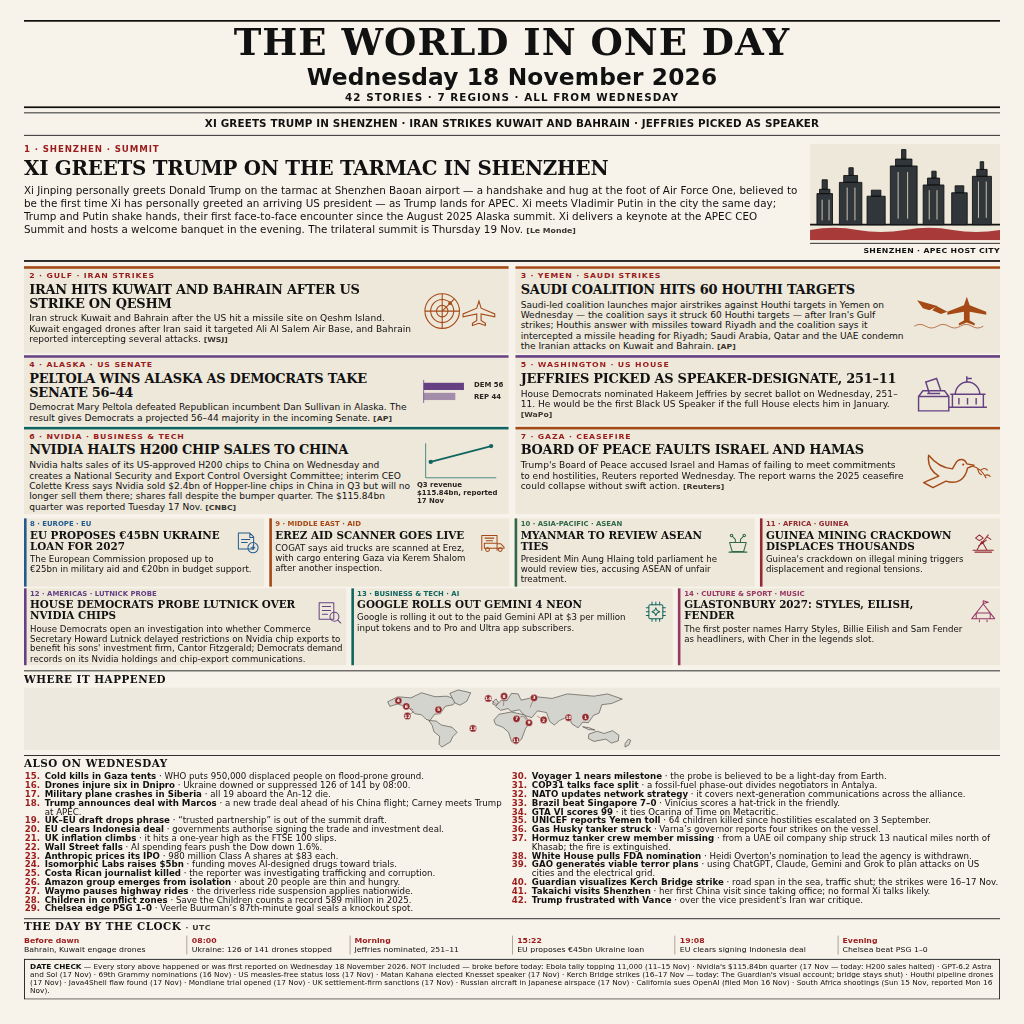
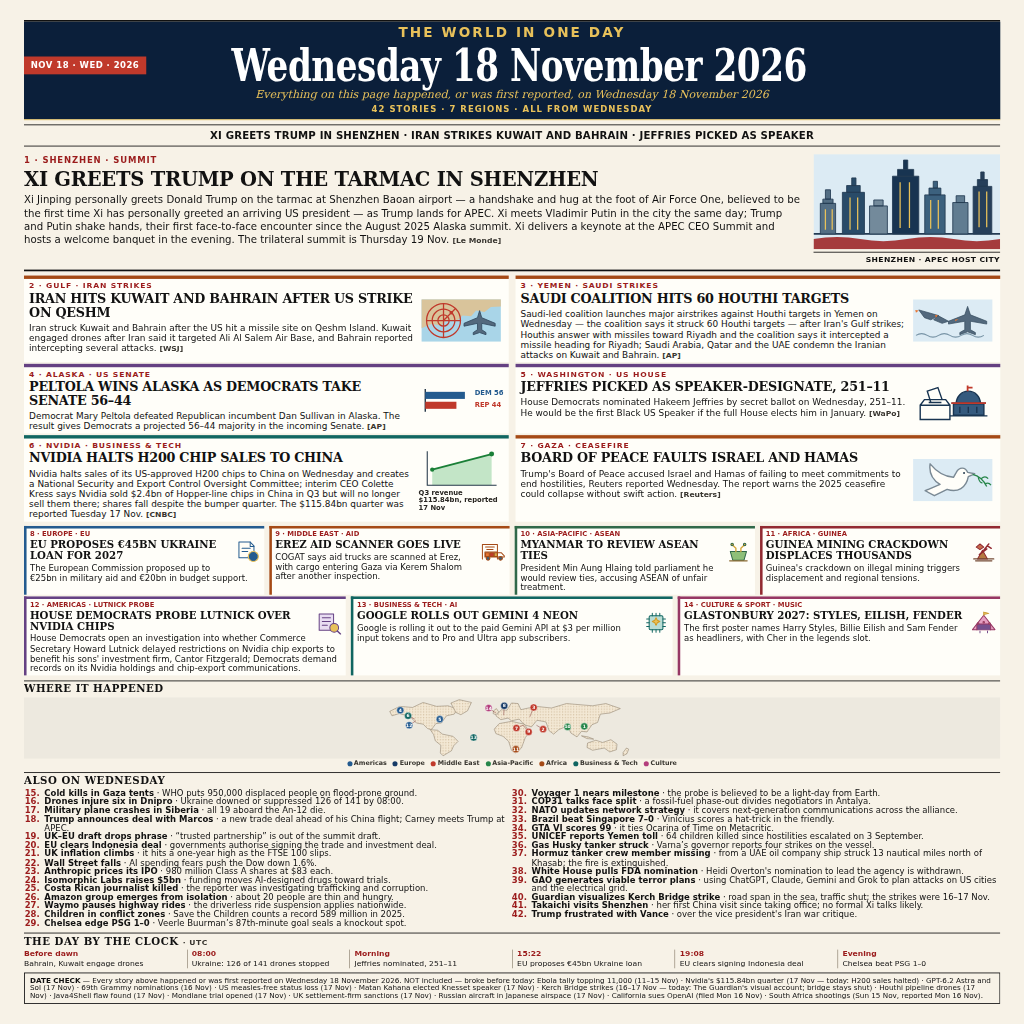
The World in One Day — 18 November 2026: navy masthead, big date, full colour

diff --git a/page.html b/page.html
@@ -7,13 +7,17 @@
 <style>
 * { box-sizing: border-box; }
 html, body { width: 1024px; height: 1024px; margin: 0; overflow: hidden; }
-body { background: #f7f3ea; color: #111; font-family: "DejaVu Sans", Arial, sans-serif; padding: 20px 24px; }
+body { background: #F7F2E7; color: #111; font-family: "DejaVu Sans", Arial, sans-serif; padding: 20px 24px; }
 .page { width: 976px; display: flow-root; overflow: hidden; transform-origin: top left; }
 .rule { border: 0; border-top: 2px solid #111; margin: 0; }
-.masthead { text-align: center; padding: 2px 0 3px; }
-h1 { font: 900 43px/1.02 "DejaVu Serif", Georgia, serif; letter-spacing: 1.1px; margin: 0 0 3px; }
-.date { font: 800 27px/1.08 "DejaVu Sans", Arial, sans-serif; letter-spacing: .15px; margin: 0 0 3px; }
-.dek { font: 700 12px/1.2 "DejaVu Sans", Arial, sans-serif; letter-spacing: 1.2px; text-transform: uppercase; }
+.masthead { background: #0B1F3A; color: #fff; text-align: center; margin: 0 -24px; padding: 4px 24px 6px; }
+h1 { color: #E8C15A; font: 900 16px/1.15 "DejaVu Sans", Arial, sans-serif; letter-spacing: 2.5px; margin: 0 0 2px; }
+.date-row { display: grid; grid-template-columns: 140px minmax(0, 1fr) 140px; align-items: center; }
+.date-badge { justify-self: start; background: #C0392B; color: #fff; padding: 5px 8px; font: 800 10px/1.15 "DejaVu Sans", Arial, sans-serif; letter-spacing: .55px; white-space: nowrap; }
+.date { color: #fff; font: 900 53px/1.02 "DejaVu Serif", Georgia, serif; letter-spacing: -.7px; margin: 0; white-space: nowrap; transform: scaleX(.76); transform-origin: center; }
+.subline { color: #E8C15A; font: italic 13px/1.15 "DejaVu Serif", Georgia, serif; margin: 1px 0 3px; }
+.dek { color: #E8C15A; font: 700 10px/1.15 "DejaVu Sans", Arial, sans-serif; letter-spacing: 1.2px; text-transform: uppercase; }
+.masthead + .rule { border-top: 1px solid #E8C15A; margin: 0 -24px; }
 .strap { border-top: 1px solid #111; border-bottom: 1px solid #111; margin: 5px 0 9px; padding: 5px 0; text-align: center; font: 800 12px/1.2 "DejaVu Sans", Arial, sans-serif; letter-spacing: .16px; }
 .lead { border-bottom: 2px solid #111; padding: 0 0 6px; display: grid; grid-template-columns: 1fr 220px; gap: 12px; }
 .kicker { color: #9b1c1c; font: 800 10px/1.2 "DejaVu Sans", Arial, sans-serif; letter-spacing: 1px; text-transform: uppercase; margin: 1px 0 4px; }
@@ -23,7 +27,7 @@ h2 { font: 800 23px/1.08 "DejaVu Serif", Georgia, serif; letter-spacing: -.3px; 
 .caption { border-top: 1px solid #111; padding-top: 3px; margin-top: 3px; font: 700 9px/1.15 "DejaVu Sans", Arial, sans-serif; letter-spacing: .4px; text-align: right; }
 .proof { font: 800 9px/1.2 "DejaVu Sans", Arial, sans-serif; color: #393630; white-space: nowrap; }
 .tier-grid { display: grid; grid-template-columns: repeat(2, minmax(0, 1fr)); gap: 2px 8px; margin: 5px 0; }
-.tier-card { --section-ink: #a54a16; border-top: 3px solid var(--section-ink); background: #eee8da; padding: 2px 6px; display: grid; grid-template-columns: minmax(0, 1fr) 100px; gap: 5px; }
+.tier-card { --section-ink: #a54a16; border-top: 4px solid var(--section-ink); background: #FFFEF9; padding: 2px 6px; display: grid; grid-template-columns: minmax(0, 1fr) 100px; gap: 5px; }
 .tier-card.ukraine { --section-ink: #455e70; }
 .tier-card.americas { --section-ink: #654183; }
 .tier-card.business { --section-ink: #116661; }
@@ -35,19 +39,31 @@ h2 { font: 800 23px/1.08 "DejaVu Serif", Georgia, serif; letter-spacing: -.3px; 
 .thumb figcaption { color: #292622; font: 700 8px/1.1 "DejaVu Sans", Arial, sans-serif; }
 .thumb-senate { display: grid; grid-template-columns: 1fr auto; align-items: center; gap: 4px; }
 .thumb-senate figcaption { display: grid; grid-template-rows: repeat(2, 14px); align-items: center; }
+.thumb-senate figcaption span:first-child { color: #245b8f; }
+.thumb-senate figcaption span:last-child { color: #C0392B; }
 .section-grid { display: grid; grid-template-columns: repeat(12, 1fr); gap: 2px 6px; }
-.section-card { grid-column: span 3; border-left: 3px solid var(--ink); background: #eee8da; padding: 2px 4px; }
+.section-card { grid-column: span 3; border-left: 3px solid var(--ink); border-top: 3px solid var(--ink); background: #FFFEF9; padding: 2px 4px; }
 .section-card:nth-child(n+5) { grid-column: span 4; }
-.section-card .kicker { color: var(--ink); font-size: 8px; letter-spacing: 0; margin: 0 0 2px; }
+.section-card .kicker { color: #9b1c1c; font-size: 8px; letter-spacing: 0; margin: 0 0 2px; }
 .section-card h2 { font-size: 12px; letter-spacing: 0; margin-bottom: 2px; }
 .section-card .summary { font-size: 10px; line-height: 1.16; }
 .section-card svg { float: right; width: 31px; height: 28px; margin: 0 0 1px 4px; color: var(--ink); fill: none; stroke: currentColor; stroke-width: 1.6; stroke-linecap: round; stroke-linejoin: round; }
 .panel { margin-top: 6px; border-top: 1px solid #111; padding-top: 3px; }
 .panel-title { font-size: 12px; letter-spacing: .6px; margin-bottom: 3px; }
 .world-map { display: block; width: 100%; height: 72px; background: #ede9df; }
-.world-map .land { fill: #d4d4cf; stroke: #393630; stroke-width: 1; stroke-linejoin: round; }
+.world-map .land { fill: url(#land-dots); stroke: #8e806c; stroke-width: 1; stroke-linejoin: round; }
 .world-map .leader { fill: none; stroke: #782726; stroke-width: .8; }
 .world-map .pins { fill: #fff; font: 700 8px "DejaVu Sans", Arial, sans-serif; text-anchor: middle; }
+.world-map .pin-americas { fill: #245b8f; }
+.world-map .pin-europe { fill: #173b67; }
+.world-map .pin-middle-east { fill: #C0392B; }
+.world-map .pin-asia-pacific { fill: #27864A; }
+.world-map .pin-africa { fill: #a54a16; }
+.world-map .pin-business { fill: #116661; }
+.world-map .pin-culture { fill: #b33d7c; }
+.map-legend { display: flex; align-items: center; justify-content: center; gap: 7px; margin-top: 2px; color: #393630; font: 700 7.5px/1.1 "DejaVu Sans", Arial, sans-serif; white-space: nowrap; }
+.map-legend span { display: inline-flex; align-items: center; gap: 2px; }
+.map-legend i { display: inline-block; width: 6px; height: 6px; border-radius: 50%; }
 .briefs { columns: 2; column-gap: 20px; margin: 0; padding: 0 0 0 22px; font-size: 10px; line-height: 1.02; }
 .briefs li { break-inside: avoid; padding-left: 2px; }
 .briefs li::marker { color: #9b1c1c; font-weight: 800; }
@@ -63,7 +79,12 @@ h2 { font: 800 23px/1.08 "DejaVu Serif", Georgia, serif; letter-spacing: -.3px; 
   <hr class="rule">
   <header class="masthead">
     <h1>THE WORLD IN ONE DAY</h1>
-    <div class="date">Wednesday 18 November 2026</div>
+    <div class="date-row">
+      <div class="date-badge">NOV 18 · WED · 2026</div>
+      <div class="date">Wednesday 18 November 2026</div>
+      <div aria-hidden="true"></div>
+    </div>
+    <div class="subline">Everything on this page happened, or was first reported, on Wednesday 18 November 2026</div>
     <div class="dek">42 stories · 7 regions · All from Wednesday</div>
   </header>
   <hr class="rule">
@@ -76,18 +97,18 @@ h2 { font: 800 23px/1.08 "DejaVu Serif", Georgia, serif; letter-spacing: -.3px; 
     </div>
     <div>
       <svg class="skyline" viewBox="0 0 220 112" role="img" aria-label="Schematic Shenzhen skyline">
-        <rect x="0" y="0" width="220" height="112" fill="#eee8da"/>
-        <path d="M0 94H220" stroke="#111" stroke-width="2"/>
-        <g fill="#30363a" stroke="#111" stroke-width="1">
-          <path d="M8 94V58h18v36zM11 53h12v5H11zM14 42h6v11h-6z"/>
-          <path d="M34 94V45h26v49zM39 37h16v8H39zM45 28h5v9h-5z"/>
-          <path d="M66 94V61h21v33zM71 54h11v7H71z"/>
-          <path d="M93 94V26h31v68zM99 18h19v8H99zM106 7h5v11h-5z"/>
-          <path d="M131 94V48h24v46zM136 40h14v8h-14zM141 32h5v8h-5z"/>
-          <path d="M164 94V57h18v37zM168 49h10v8h-10z"/>
-          <path d="M188 94V38h22v56zM193 30h12v8h-12zM197 21h4v9h-4z"/>
+        <rect x="0" y="0" width="220" height="112" fill="#DCEBF4"/>
+        <path d="M0 94H220" stroke="#243b53" stroke-width="2"/>
+        <g stroke="#243b53" stroke-width="1">
+          <path d="M8 94V58h18v36zM11 53h12v5H11zM14 42h6v11h-6z" fill="#536E84"/>
+          <path d="M34 94V45h26v49zM39 37h16v8H39zM45 28h5v9h-5z" fill="#294B68"/>
+          <path d="M66 94V61h21v33zM71 54h11v7H71z" fill="#738A9B"/>
+          <path d="M93 94V26h31v68zM99 18h19v8H99zM106 7h5v11h-5z" fill="#183451"/>
+          <path d="M131 94V48h24v46zM136 40h14v8h-14zM141 32h5v8h-5z" fill="#3C617E"/>
+          <path d="M164 94V57h18v37zM168 49h10v8h-10z" fill="#607C91"/>
+          <path d="M188 94V38h22v56zM193 30h12v8h-12zM197 21h4v9h-4z" fill="#263F5A"/>
         </g>
-        <g stroke="#e5d9bf" stroke-width="1">
+        <g stroke="#E8C15A" stroke-width="1.5">
           <path d="M14 65v24m8-24v24M43 51v38m9-38v38M102 33v54m11-54v54M138 54v34m9-34v34M195 44v42m9-42v42"/>
         </g>
         <path d="M0 100q28-5 55 0t55 0t55 0t55 0v12H0z" fill="#9b1c1c" opacity=".85"/>
@@ -104,12 +125,14 @@ h2 { font: 800 23px/1.08 "DejaVu Serif", Georgia, serif; letter-spacing: -.3px; 
       </div>
       <figure class="thumb">
         <svg viewBox="0 0 112 60" aria-hidden="true">
-          <g fill="none" stroke="currentColor" stroke-width="1.5">
+          <rect width="112" height="60" fill="#A9D5E8"/>
+          <path d="M0 0h112v10l-14 1-9 7-12-2-7 8-12-1-9 8-14-1-7 7-14-2L0 41z" fill="#D9C49B"/>
+          <g fill="none" stroke="#C0392B" stroke-width="1.8">
             <circle cx="31" cy="30" r="24"/><circle cx="31" cy="30" r="16"/><circle cx="31" cy="30" r="8"/>
             <path d="M7 30h48M31 6v48M31 30l17-17"/>
-            <path d="M82 16l3 10 19 8v4l-19-4v9l6 4v3l-9-3-9 3v-3l6-4v-9l-19 4v-4l19-8z"/>
           </g>
-          <circle cx="42" cy="19" r="2.5" fill="currentColor"/>
+          <path d="M82 16l3 10 19 8v4l-19-4v9l6 4v3l-9-3-9 3v-3l6-4v-9l-19 4v-4l19-8z" fill="#53697D" stroke="#32495F" stroke-width="1.2"/>
+          <circle cx="42" cy="19" r="2.5" fill="#C0392B"/>
         </svg>
       </figure>
     </article>
@@ -121,8 +144,10 @@ h2 { font: 800 23px/1.08 "DejaVu Serif", Georgia, serif; letter-spacing: -.3px; 
       </div>
       <figure class="thumb">
         <svg viewBox="0 0 112 60" aria-hidden="true">
-          <path d="M8 15l28 8-11 6-9-3zM35 23l15 8-9 3-12-5zM77 10l4 12 23 9v4l-23-4v12l7 4v3l-11-4-11 4v-3l7-4V31l-23 4v-4l23-9z" fill="currentColor"/>
-          <path d="M4 51q8-5 16 0t16 0t16 0t16 0t16 0t16 0" fill="none" stroke="currentColor"/>
+          <rect width="112" height="60" fill="#DCEBF4"/>
+          <path d="M8 15l28 8-11 6-9-3zM35 23l15 8-9 3-12-5zM77 10l4 12 23 9v4l-23-4v12l7 4v3l-11-4-11 4v-3l7-4V31l-23 4v-4l23-9z" fill="#53697D" stroke="#354B5D" stroke-width="1"/>
+          <path d="M3 15l5 1-4 3zm28 7 4 1-3 3zm28 7 5-1-4 3z" fill="#E87532"/>
+          <path d="M4 51q8-5 16 0t16 0t16 0t16 0t16 0t16 0" fill="none" stroke="#7894A6" stroke-width="1.5"/>
         </svg>
       </figure>
     </article>
@@ -134,9 +159,9 @@ h2 { font: 800 23px/1.08 "DejaVu Serif", Georgia, serif; letter-spacing: -.3px; 
       </div>
       <figure class="thumb thumb-senate">
         <svg viewBox="0 0 64 60" aria-hidden="true">
-          <path d="M4 14v32" stroke="currentColor"/>
-          <rect x="4" y="18" width="56" height="10" fill="currentColor"/>
-          <rect x="4" y="32" width="44" height="10" fill="currentColor" opacity=".55"/>
+          <path d="M4 14v32" stroke="#263849" stroke-width="2"/>
+          <rect x="4" y="18" width="56" height="10" fill="#245b8f"/>
+          <rect x="4" y="32" width="44" height="10" fill="#C0392B"/>
         </svg>
         <figcaption><span>DEM 56</span><span>REP 44</span></figcaption>
       </figure>
@@ -149,11 +174,13 @@ h2 { font: 800 23px/1.08 "DejaVu Serif", Georgia, serif; letter-spacing: -.3px; 
       </div>
       <figure class="thumb">
         <svg viewBox="0 0 112 60" aria-hidden="true">
-          <g fill="none" stroke="currentColor" stroke-width="2">
-            <path d="M52 52h53M57 51V34h43v17M54 34h49M61 34a17 17 0 0 1 34 0M77 17V9m0 3h7M66 39v9m12-9v9m12-9v9"/>
+          <path d="M57 51V35h43v16zM61 34a17 17 0 0 1 34 0z" fill="#355A7E" stroke="#183451" stroke-width="2"/>
+          <g fill="none" stroke="#183451" stroke-width="2">
+            <path d="M52 52h53M54 34h49M66 39v9m12-9v9m12-9v9"/>
             <path d="M10 37h42v20H10zM10 37l6-8h30l6 8M22 33h18"/>
             <path d="m25 33-5-16 15-5 6 17"/>
           </g>
+          <path d="M54 34h49M77 17V9m0 3h7" fill="none" stroke="#C0392B" stroke-width="2.5"/>
         </svg>
       </figure>
     </article>
@@ -165,9 +192,10 @@ h2 { font: 800 23px/1.08 "DejaVu Serif", Georgia, serif; letter-spacing: -.3px; 
       </div>
       <figure class="thumb">
         <svg viewBox="0 0 112 60" aria-hidden="true">
-          <path d="M8 6v48h98" fill="none" stroke="currentColor"/>
-          <path d="M15 32 99 10" fill="none" stroke="currentColor" stroke-width="2.5"/>
-          <circle cx="15" cy="32" r="3" fill="currentColor"/><circle cx="99" cy="10" r="3" fill="currentColor"/>
+          <path d="M15 32 99 10V54H15Z" fill="#B9E0BE" opacity=".85"/>
+          <path d="M8 6v48h98" fill="none" stroke="#263849" stroke-width="1.5"/>
+          <path d="M15 32 99 10" fill="none" stroke="#1a7f37" stroke-width="2.8"/>
+          <circle cx="15" cy="32" r="3" fill="#1a7f37"/><circle cx="99" cy="10" r="3.5" fill="#1a7f37"/>
         </svg>
         <figcaption>Q3 revenue $115.84bn, reported 17 Nov</figcaption>
       </figure>
@@ -180,9 +208,10 @@ h2 { font: 800 23px/1.08 "DejaVu Serif", Georgia, serif; letter-spacing: -.3px; 
       </div>
       <figure class="thumb">
         <svg viewBox="0 0 112 60" aria-hidden="true">
-          <path d="M78 25l9-4-10-2c-3-8-12-8-16 0l-4 7C44 25 33 18 24 7c-2 14 4 23 14 29L17 45l13 7 18-9c15 5 27-2 30-18z" fill="none" stroke="currentColor" stroke-width="2" stroke-linejoin="round"/>
-          <circle cx="72" cy="20" r="1.5" fill="currentColor"/>
-          <path d="M84 22q13 3 20 17m-12-13q2 8 6 8m-2-6q6-5 10 0m-4 7q5-2 8 2" fill="none" stroke="currentColor" stroke-width="1.5"/>
+          <rect width="112" height="60" fill="#DCEBF4"/>
+          <path d="M78 25l9-4-10-2c-3-8-12-8-16 0l-4 7C44 25 33 18 24 7c-2 14 4 23 14 29L17 45l13 7 18-9c15 5 27-2 30-18z" fill="#FFFEF9" stroke="#7A8994" stroke-width="2" stroke-linejoin="round"/>
+          <circle cx="72" cy="20" r="1.5" fill="#34495A"/>
+          <path d="M84 22q13 3 20 17m-12-13q2 8 6 8m-2-6q6-5 10 0m-4 7q5-2 8 2" fill="none" stroke="#27864A" stroke-width="1.8"/>
         </svg>
       </figure>
     </article>
@@ -190,43 +219,43 @@ h2 { font: 800 23px/1.08 "DejaVu Serif", Georgia, serif; letter-spacing: -.3px; 
   <section id="section-stories" class="section-grid" aria-label="Section stories">
     <article class="section-card" style="--ink:#245b8f">
       <div class="kicker">8 · EUROPE · EU</div>
-      <svg viewBox="0 0 42 38" aria-hidden="true"><path d="M7 4h18l6 6v19H7zM25 4v7h6M12 14h13m-13 5h9"/><circle cx="30" cy="27" r="8"/><path d="M27 27h6m-3-3v6"/></svg>
+      <svg viewBox="0 0 42 38" aria-hidden="true"><path d="M7 4h18l6 6v19H7z" fill="#fffdf6"/><circle cx="30" cy="27" r="8" fill="#245b8f" stroke="#E8C15A"/><circle cx="30" cy="19" r="1" fill="#E8C15A" stroke="none"/><circle cx="35.5" cy="21.5" r="1" fill="#E8C15A" stroke="none"/><circle cx="38" cy="27" r="1" fill="#E8C15A" stroke="none"/><circle cx="35.5" cy="32.5" r="1" fill="#E8C15A" stroke="none"/><circle cx="30" cy="35" r="1" fill="#E8C15A" stroke="none"/><circle cx="24.5" cy="32.5" r="1" fill="#E8C15A" stroke="none"/><circle cx="22" cy="27" r="1" fill="#E8C15A" stroke="none"/><circle cx="24.5" cy="21.5" r="1" fill="#E8C15A" stroke="none"/><path d="M25 4v7h6M12 14h13m-13 5h9M27 27h6m-3-3v6"/></svg>
       <h2>EU PROPOSES €45BN UKRAINE LOAN FOR 2027</h2>
       <p class="summary">The European Commission proposed up to €25bn in military aid and €20bn in budget support.</p>
     </article>
     <article class="section-card" style="--ink:#a54a16">
       <div class="kicker">9 · MIDDLE EAST · AID</div>
-      <svg viewBox="0 0 42 38" aria-hidden="true"><path d="M4 31V8h24v23M8 20h20v8H8zm20 1h6l5 5v2H28M9 12h14m-12 4h10"/><circle cx="13" cy="30" r="3"/><circle cx="33" cy="30" r="3"/></svg>
+      <svg viewBox="0 0 42 38" aria-hidden="true"><rect x="9" y="21" width="6" height="6" fill="#E87532"/><rect x="16" y="21" width="6" height="6" fill="#C0392B"/><rect x="23" y="21" width="5" height="6" fill="#D8AA43"/><path d="M4 31V8h24v23M8 20h20v8H8zm20 1h6l5 5v2H28M9 12h14m-12 4h10"/><circle cx="13" cy="30" r="3" fill="#455e70"/><circle cx="33" cy="30" r="3" fill="#455e70"/></svg>
       <h2>EREZ AID SCANNER GOES LIVE</h2>
       <p class="summary">COGAT says aid trucks are scanned at Erez, with cargo entering Gaza via Kerem Shalom after another inspection.</p>
     </article>
     <article class="section-card" style="--ink:#306849">
       <div class="kicker">10 · ASIA-PACIFIC · ASEAN</div>
-      <svg viewBox="0 0 42 38" aria-hidden="true"><path d="M8 19h26l-4 14H12zM17 19v-5l-5-5m13 10v-5l5-5M7 34h28"/><circle cx="11" cy="8" r="2"/><circle cx="31" cy="8" r="2"/></svg>
+      <svg viewBox="0 0 42 38" aria-hidden="true"><path d="M8 19h26l-4 14H12z" fill="#8EBF79"/><path d="M17 19v-5l-5-5m13 10v-5l5-5" fill="none" stroke="#D5A83D" stroke-width="2.2"/><path d="M7 34h28" stroke="#8B6A32" stroke-width="2"/><circle cx="11" cy="8" r="2" fill="#D5A83D"/><circle cx="31" cy="8" r="2" fill="#D5A83D"/></svg>
       <h2>MYANMAR TO REVIEW ASEAN TIES</h2>
       <p class="summary">President Min Aung Hlaing told parliament he would review ties, accusing ASEAN of unfair treatment.</p>
     </article>
     <article class="section-card" style="--ink:#922a31">
       <div class="kicker">11 · AFRICA · GUINEA</div>
-      <svg viewBox="0 0 42 38" aria-hidden="true"><path d="M5 31h32M11 31l8-14 8 14M14 24l12-9M21 17l8-10M27 10l6 4M8 34h26"/><path d="M9 12l6-5 6 5-6 4z"/></svg>
+      <svg viewBox="0 0 42 38" aria-hidden="true"><path d="M11 31l8-14 8 14z" fill="#B47A42"/><path d="M14 24l12-9M21 17l8-10M27 10l6 4" stroke="#922a31" stroke-width="2.3"/><path d="M9 12l6-5 6 5-6 4z" fill="#C66B4B"/><path d="M5 31h32M8 34h26" stroke="#754B36" stroke-width="2"/></svg>
       <h2>GUINEA MINING CRACKDOWN DISPLACES THOUSANDS</h2>
       <p class="summary">Guinea's crackdown on illegal mining triggers displacement and regional tensions.</p>
     </article>
     <article class="section-card" style="--ink:#654183">
       <div class="kicker">12 · AMERICAS · LUTNICK PROBE</div>
-      <svg viewBox="0 0 42 38" aria-hidden="true"><path d="M5 5h23v26H5zM10 11h13m-13 6h13m-13 6h8"/><circle cx="29" cy="27" r="7"/><path d="m34 32 5 5"/></svg>
+      <svg viewBox="0 0 42 38" aria-hidden="true"><path d="M5 5h23v26H5z" fill="#E8DDF1"/><path d="M10 11h13m-13 6h13m-13 6h8" stroke="#654183"/><circle cx="29" cy="27" r="7" fill="#E8C15A" stroke="#654183"/><path d="m34 32 5 5" stroke="#654183" stroke-width="2.3"/></svg>
       <h2>HOUSE DEMOCRATS PROBE LUTNICK OVER NVIDIA CHIPS</h2>
       <p class="summary">House Democrats open an investigation into whether Commerce Secretary Howard Lutnick delayed restrictions on Nvidia chip exports to benefit his sons' investment firm, Cantor Fitzgerald; Democrats demand records on its Nvidia holdings and chip-export communications.</p>
     </article>
     <article class="section-card" style="--ink:#116661">
       <div class="kicker">13 · BUSINESS &amp; TECH · AI</div>
-      <svg viewBox="0 0 42 38" aria-hidden="true"><rect x="10" y="8" width="22" height="22" rx="2"/><path d="M15 4v4m6-4v4m6-4v4m-12 22v4m6-4v4m6-4v4M6 13h4m-4 6h4m-4 6h4m22-12h4m-4 6h4m-4 6h4m-15-12 2 4 4 2-4 2-2 4-2-4-4-2 4-2z"/></svg>
+      <svg viewBox="0 0 42 38" aria-hidden="true"><rect x="10" y="8" width="22" height="22" rx="2" fill="#B9DDD5"/><path d="M15 4v4m6-4v4m6-4v4m-12 22v4m6-4v4m6-4v4M6 13h4m-4 6h4m-4 6h4m22-12h4m-4 6h4m-4 6h4"/><path d="m21 11 2 4 4 2-4 2-2 4-2-4-4-2 4-2z" fill="#E8C15A" stroke="#D39A23"/></svg>
       <h2>GOOGLE ROLLS OUT GEMINI 4 NEON</h2>
       <p class="summary">Google is rolling it out to the paid Gemini API at $3 per million input tokens and to Pro and Ultra app subscribers.</p>
     </article>
     <article class="section-card" style="--ink:#963764">
       <div class="kicker">14 · CULTURE &amp; SPORT · MUSIC</div>
-      <svg viewBox="0 0 42 38" aria-hidden="true"><path d="M3 30 21 7l18 23zM10 30V21h22v9M15 32v3m12-3v3M21 7V2l8 2-8 2"/></svg>
+      <svg viewBox="0 0 42 38" aria-hidden="true"><path d="M3 30 21 7l18 23z" fill="#E5A0C1"/><path d="M10 30V21h22v9" fill="#76508D"/><path d="M15 32v3m12-3v3" stroke="#76508D"/><path d="M21 7V2l8 2-8 2" fill="#E8C15A" stroke="#C99A35"/><circle cx="12" cy="20" r="1.2" fill="#E8C15A"/><circle cx="21" cy="18" r="1.2" fill="#E8C15A"/><circle cx="30" cy="20" r="1.2" fill="#E8C15A"/></svg>
       <h2>GLASTONBURY 2027: STYLES, EILISH, FENDER</h2>
       <p class="summary">The first poster names Harry Styles, Billie Eilish and Sam Fender as headliners, with Cher in the legends slot.</p>
     </article>
@@ -234,7 +263,10 @@ h2 { font: 800 23px/1.08 "DejaVu Serif", Georgia, serif; letter-spacing: -.3px; 
   <section id="where-it-happened" class="panel" aria-labelledby="map-title">
     <h2 id="map-title" class="panel-title">WHERE IT HAPPENED</h2>
     <svg class="world-map" viewBox="0 0 500 110" role="img" aria-label="Schematic world map with numbered markers for stories 1 to 14">
-      <defs><circle id="map-pin" r="6.4" fill="#912727" stroke="#fff" stroke-width=".7"/></defs>
+      <defs>
+        <pattern id="land-dots" width="5" height="5" patternUnits="userSpaceOnUse"><rect width="5" height="5" fill="#F3E8D4"/><circle cx="1.2" cy="1.2" r=".85" fill="#B99E78"/></pattern>
+        <circle id="map-pin" r="6.4" stroke="#fff" stroke-width=".7"/>
+      </defs>
       <g class="land">
         <path d="M30 25l18-9 23 2 19-9 24 7 21-1 17 6-6 9-14 3-9 13-10 1-8 11-7-2-8-8-12-2-12-12-19-5-13 4z"/>
         <path d="M140 10l15-6 22 5-7 15-12 7-9-4z"/>
@@ -245,22 +277,25 @@ h2 { font: 800 23px/1.08 "DejaVu Serif", Georgia, serif; letter-spacing: -.3px; 
       </g>
       <path class="leader" d="M221 28l-13-9m27 13 1-17m46 20 7-17m-19 32-12 5m12-5 10 12m14-12 12 7M75 39l-12-6m14 9-12 8"/>
       <g class="pins">
-        <g transform="translate(380 52)"><use href="#map-pin"/><text y="2.8">1</text></g>
-        <g transform="translate(306 57)"><use href="#map-pin"/><text y="2.8">2</text></g>
-        <g transform="translate(289 18)"><use href="#map-pin"/><text y="2.8">3</text></g>
-        <g transform="translate(49 23)"><use href="#map-pin"/><text y="2.8">4</text></g>
-        <g transform="translate(120 39)"><use href="#map-pin"/><text y="2.8">5</text></g>
-        <g transform="translate(63 33)"><use href="#map-pin"/><text y="2.8">6</text></g>
-        <g transform="translate(258 55)"><use href="#map-pin"/><text y="2.8">7</text></g>
-        <g transform="translate(236 15)"><use href="#map-pin"/><text y="2.8">8</text></g>
-        <g transform="translate(280 62)"><use href="#map-pin"/><text y="2.8">9</text></g>
-        <g transform="translate(350 53)"><use href="#map-pin"/><text y="2.8">10</text></g>
-        <g transform="translate(257 93)"><use href="#map-pin"/><text y="2.8">11</text></g>
-        <g transform="translate(65 50)"><use href="#map-pin"/><text y="2.8">12</text></g>
-        <g transform="translate(181 72)" aria-label="13, global"><use href="#map-pin"/><text y="2.8">13</text></g>
-        <g transform="translate(208 19)"><use href="#map-pin"/><text y="2.8">14</text></g>
+        <g transform="translate(380 52)"><use href="#map-pin" class="pin-asia-pacific"/><text y="2.8">1</text></g>
+        <g transform="translate(306 57)"><use href="#map-pin" class="pin-middle-east"/><text y="2.8">2</text></g>
+        <g transform="translate(289 18)"><use href="#map-pin" class="pin-middle-east"/><text y="2.8">3</text></g>
+        <g transform="translate(49 23)"><use href="#map-pin" class="pin-americas"/><text y="2.8">4</text></g>
+        <g transform="translate(120 39)"><use href="#map-pin" class="pin-americas"/><text y="2.8">5</text></g>
+        <g transform="translate(63 33)"><use href="#map-pin" class="pin-business"/><text y="2.8">6</text></g>
+        <g transform="translate(258 55)"><use href="#map-pin" class="pin-middle-east"/><text y="2.8">7</text></g>
+        <g transform="translate(236 15)"><use href="#map-pin" class="pin-europe"/><text y="2.8">8</text></g>
+        <g transform="translate(280 62)"><use href="#map-pin" class="pin-middle-east"/><text y="2.8">9</text></g>
+        <g transform="translate(350 53)"><use href="#map-pin" class="pin-asia-pacific"/><text y="2.8">10</text></g>
+        <g transform="translate(257 93)"><use href="#map-pin" class="pin-africa"/><text y="2.8">11</text></g>
+        <g transform="translate(65 50)"><use href="#map-pin" class="pin-americas"/><text y="2.8">12</text></g>
+        <g transform="translate(181 72)" aria-label="13, global"><use href="#map-pin" class="pin-business"/><text y="2.8">13</text></g>
+        <g transform="translate(208 19)"><use href="#map-pin" class="pin-culture"/><text y="2.8">14</text></g>
       </g>
     </svg>
+    <div class="map-legend" aria-label="Map pin colors by region">
+      <span><i style="background:#245b8f"></i>Americas</span><span><i style="background:#173b67"></i>Europe</span><span><i style="background:#C0392B"></i>Middle East</span><span><i style="background:#27864A"></i>Asia-Pacific</span><span><i style="background:#a54a16"></i>Africa</span><span><i style="background:#116661"></i>Business &amp; Tech</span><span><i style="background:#b33d7c"></i>Culture</span>
+    </div>
   </section>
   <section id="also-on-wednesday" class="panel" aria-labelledby="briefs-title">
     <h2 id="briefs-title" class="panel-title">ALSO ON WEDNESDAY</h2>
